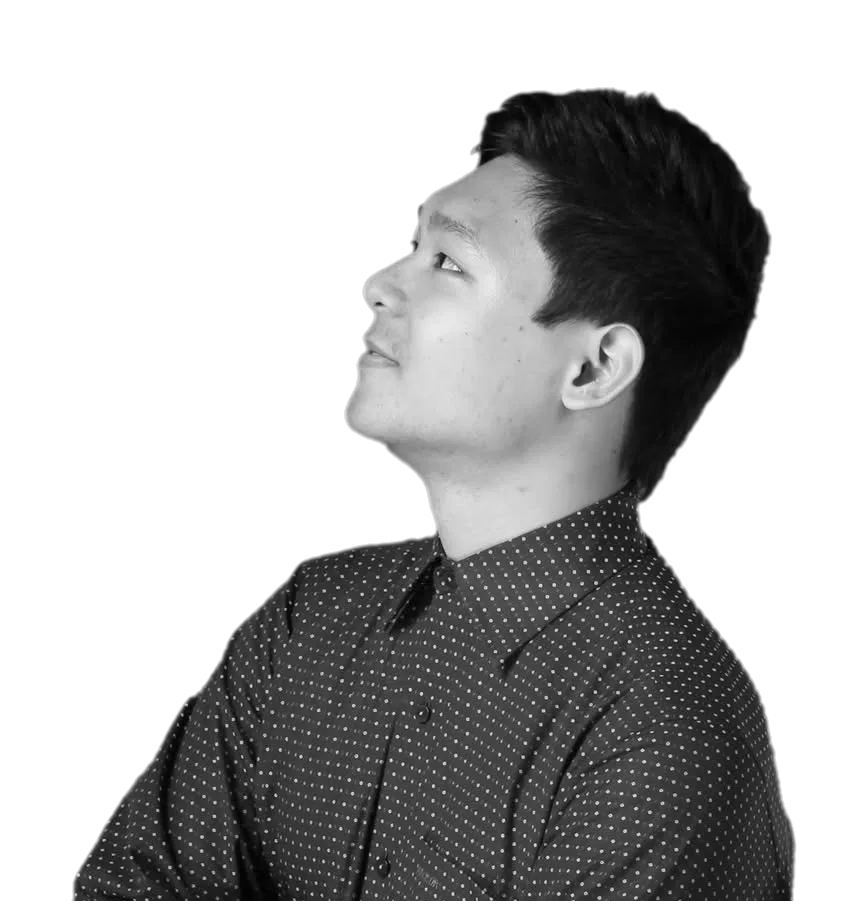
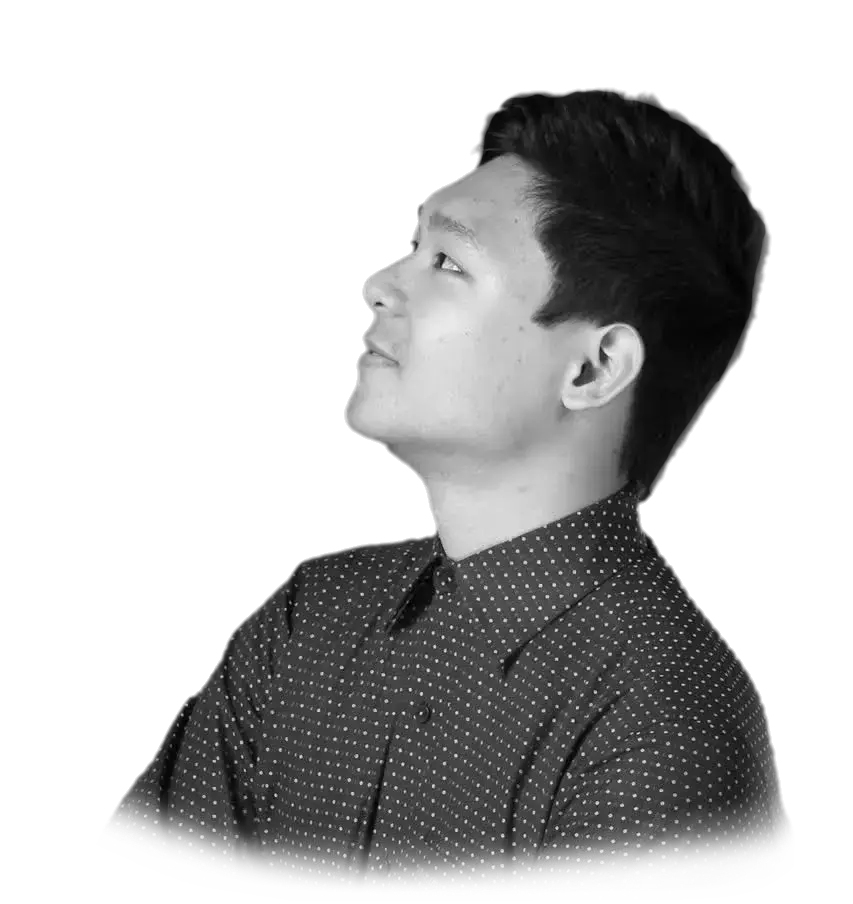
refactor(navbar): improve code readability and structure
Updated the navbar component by enhancing the formatting for better readability, including consistent semicolon usage and clearer indentation. The homeSections array was reordered for clarity. Additionally, minor adjustments were made to the logic for handling menu states and route activations.

Updated the portrait image to a new version.

diff --git a/app/components/navbar/navbar.vue b/app/components/navbar/navbar.vue
@@ -1,9 +1,15 @@
 <template>
   <div class="tnav">
     <div class="tnav__in">
-      <NuxtLink to="/" class="tnav__logo"><span class="c-accent">~/</span>ponnex</NuxtLink>
+      <NuxtLink to="/" class="tnav__logo"
+        ><span class="c-accent">~/</span>ponnex</NuxtLink
+      >
 
-      <ul class="tnav__links" :class="{ 'tnav__links--open': menuOpen }" id="tnav-drawer">
+      <ul
+        class="tnav__links"
+        :class="{ 'tnav__links--open': menuOpen }"
+        id="tnav-drawer"
+      >
         <li :class="{ active: isRouteActive('/') }" role="presentation">
           <NuxtLink to="/" @click="closeMenu">portfolio</NuxtLink>
         </li>
@@ -21,7 +27,7 @@
             :key="s.id"
             class="tnav__section"
             :class="{ active: activeId === s.id }"
-                     >
+          >
             <a :href="`#${s.id}`" @click="closeMenu">{{ s.label }}</a>
           </li>
         </template>
@@ -55,7 +61,9 @@
           @click="menuOpen = !menuOpen"
         >
           <span class="theme-toggle__bracket">[</span>
-          <span class="theme-toggle__label">{{ menuOpen ? 'close' : 'menu' }}</span>
+          <span class="theme-toggle__label">{{
+            menuOpen ? 'close' : 'menu'
+          }}</span>
           <span class="theme-toggle__bracket">]</span>
         </button>
       </div>
@@ -64,58 +72,60 @@
 </template>
 
 <script setup lang="ts">
-const route = useRoute()
-const { theme, toggleTheme } = useTheme()
+const route = useRoute();
+const { theme, toggleTheme } = useTheme();
 
 // the theme a click switches TO (action-labeled like [menu]/[copy]) — feeds
 // the aria-label only; visible text is CSS-driven off the <html> theme class
 // so it can't flash a stale value pre-hydration
-const themeLabel = computed(() => (theme.value === 'light' ? 'dark' : 'light'))
+const themeLabel = computed(() => (theme.value === 'light' ? 'dark' : 'light'));
 
-const menuOpen = ref(false)
-const isHome = computed(() => route.path === '/')
+const menuOpen = ref(false);
+const isHome = computed(() => route.path === '/');
 
 const homeSections = [
-  { id: 'work', label: 'work' },
   { id: 'about', label: 'about' },
+  { id: 'work', label: 'work' },
   { id: 'skills', label: 'skills' },
   { id: 'contact', label: 'contact' },
-] as const
+] as const;
 
-const sectionIds = computed(() => (isHome.value ? homeSections.map((s) => s.id) : []))
-const { activeId } = useScrollSpy(sectionIds)
+const sectionIds = computed(() =>
+  isHome.value ? homeSections.map((s) => s.id) : [],
+);
+const { activeId } = useScrollSpy(sectionIds);
 
 function isRouteActive(path: string) {
-  if (path === '/') return route.path === '/'
-  return route.path.startsWith(path)
+  if (path === '/') return route.path === '/';
+  return route.path.startsWith(path);
 }
 
 function closeMenu() {
-  menuOpen.value = false
+  menuOpen.value = false;
 }
 
 watch(
   () => route.path,
   () => {
-    menuOpen.value = false
+    menuOpen.value = false;
   },
-)
+);
 
 // Mobile drawer is a full-bleed overlay. When open: lock body scroll so the
 // page behind doesn't move, and `inert` the rest of the page so keyboard/AT
 // focus can't escape into the content hidden underneath the drawer.
 function setDrawerState(open: boolean) {
-  if (!import.meta.client) return
-  document.body.classList.toggle('no-scroll', open)
-  document.getElementById('main')?.toggleAttribute('inert', open)
-  document.querySelector('footer')?.toggleAttribute('inert', open)
+  if (!import.meta.client) return;
+  document.body.classList.toggle('no-scroll', open);
+  document.getElementById('main')?.toggleAttribute('inert', open);
+  document.querySelector('footer')?.toggleAttribute('inert', open);
 }
 
-watch(menuOpen, setDrawerState)
+watch(menuOpen, setDrawerState);
 
 onKeyStroke('Escape', () => {
-  if (menuOpen.value) menuOpen.value = false
-})
+  if (menuOpen.value) menuOpen.value = false;
+});
 
-onBeforeUnmount(() => setDrawerState(false))
+onBeforeUnmount(() => setDrawerState(false));
 </script>